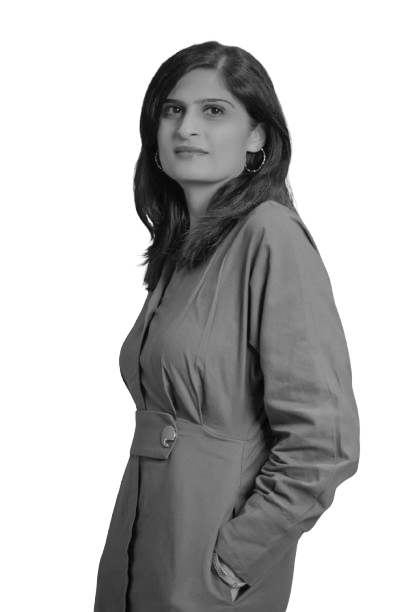
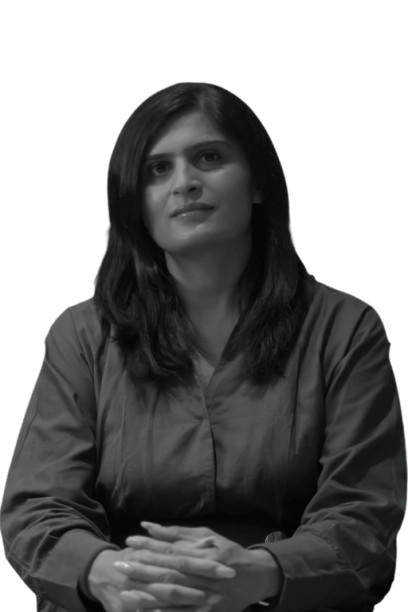
chnaged details in layout and changed nita's image

diff --git a/app/layout.tsx b/app/layout.tsx
@@ -6,13 +6,13 @@ import { Footer } from "@/components/Footer";
 import NavbarWrapper from "@/components/NavbarWrapper";
 
 export const metadata: Metadata = {
-  metadataBase: new URL("https://workshop-eight-opal.vercel.app/"),
+  metadataBase: new URL("http://goldminingforpreforeclosures.com/"),
   title: "PREFORECLOSURE WORKSHOP ",
   description: "A workshop  by Nita Patel",
   openGraph: {
-    title: "Creative Funding | Flexible & Reliable Loan Solutions",
+    title: "PREFORECLOSURE WORKSHOP",
     description:
-      "Experience hassle-free lending with Creative Funding. We offer various types of loans with an easy process, trustworthy service, and round-the-clock availability. Your reliable partner in financial solutions.",
+      "A workshop  by Nita Patel",
     images: [
       {
         url: "/logof-removebg-preview.png",
@@ -26,9 +26,9 @@ export const metadata: Metadata = {
   },
   twitter: {
     card: "summary_large_image",
-    title: "Creative Funding | Simple & Trusted Loan Solutions",
+    title: "PREFORECLOSURE WORKSHOP",
     description:
-      "Looking for flexible loan options? Creative Funding offers various types of loans with an easy process, trustworthy service, and 24/7 support. Your path to reliable financial solutions starts here.",
+      "Workshop By Nita Patel",
     images: ["/logof-removebg-preview.png"],
   },
 };

diff --git a/app/page.tsx b/app/page.tsx
@@ -9,7 +9,7 @@ import { AboutUs } from "@/components/AboutUs";
 import { Speakers } from "@/components/Speakers";
 import speaker1 from "../public/speaker1.png";
 import speaker2 from "../public/speaker2.png";
-import speaker3 from "../public/Nita1.png";
+import speaker3 from "../public/speaker3.png";
 import speaker4 from "../public/Gabriela.png";
 import { EarlyAccess } from "@/components/EarlyAccess";
 import { Attend } from "@/components/Attend";
